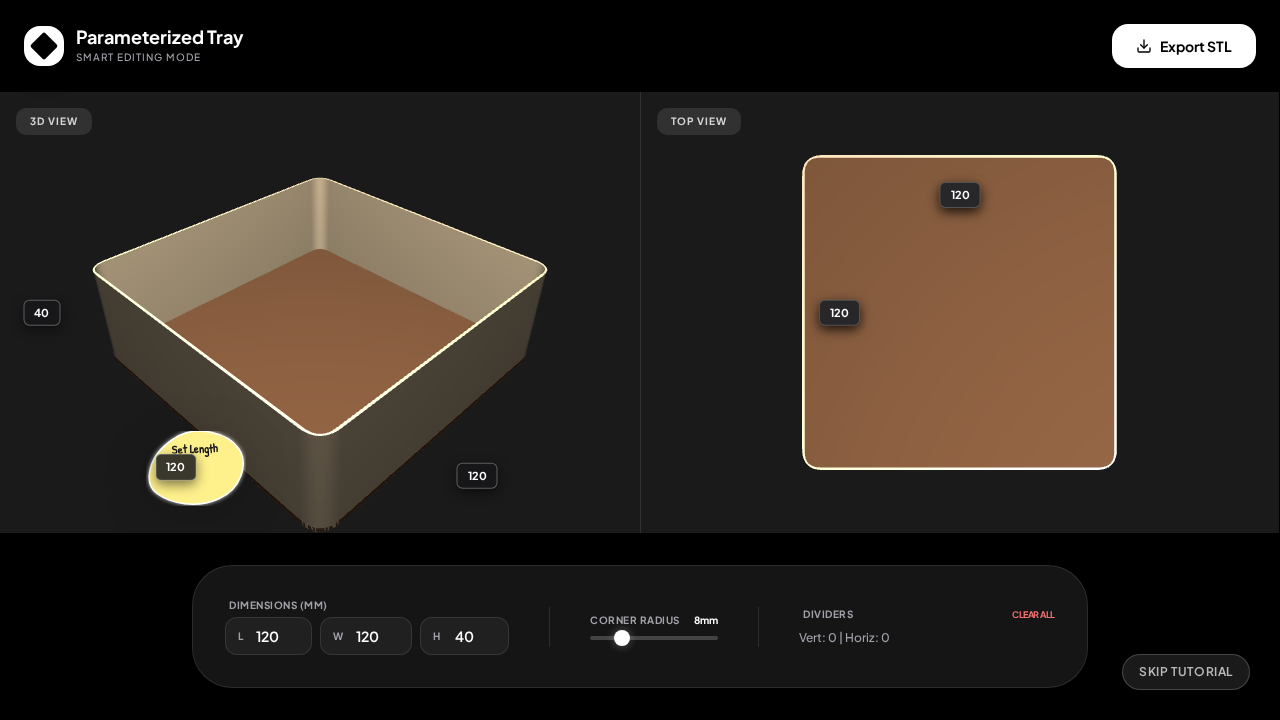
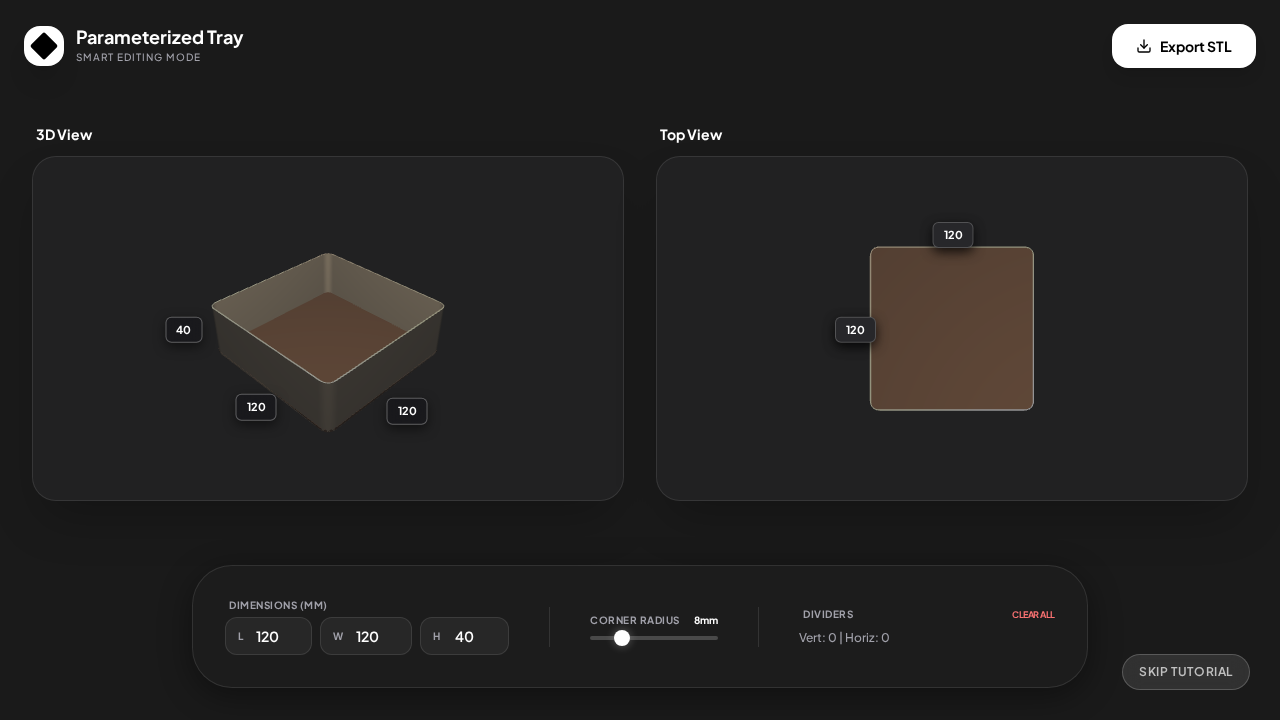
Refactor viewport layout into distinct cards for 3D and Top views
- Split 3D and Top views into separated, styled cards with rounded corners and gaps
- Update SceneManager to use transparent WebGL renderer, allowing CSS card backgrounds to show through
- Update HTML structure to include wrapper divs for layout handling
- Adjust mobile toggle logic to target new wrapper elements
- Ensure robustness on desktop resize with `md:flex-1` classes
- Configure canvas with `pointer-events: none` to support underlying UI interactions

diff --git a/index.html b/index.html
@@ -17,7 +17,7 @@
         input[type=range]::-webkit-slider-thumb { -webkit-appearance: none; height: 16px; width: 16px; border-radius: 50%; background: #ffffff; cursor: pointer; margin-top: -6px; box-shadow: 0 0 10px rgba(255,255,255,0.3); border: none; }
         input[type=range]::-webkit-slider-runnable-track { width: 100%; height: 4px; cursor: pointer; background: rgba(255,255,255,0.2); border-radius: 2px; }
         .view-label { position: absolute; top: 1rem; left: 1rem; background: rgba(255,255,255,0.1); padding: 6px 14px; border-radius: 10px; font-size: 10px; text-transform: uppercase; letter-spacing: 0.1em; font-weight: 700; color: rgba(255,255,255,0.8); z-index: 20; pointer-events: none; border: none; }
-        #main-canvas { position: fixed; top: 0; left: 0; width: 100%; height: 100%; z-index: 1; }
+        #main-canvas { position: fixed; top: 0; left: 0; width: 100%; height: 100%; z-index: 10; pointer-events: none; }
         .viewport-placeholder { position: relative; flex: 1; z-index: 2; }
         .dim-label { position: absolute; font-size: 11px; font-weight: 800; color: #ffffff; z-index: 2000; background: #27272a; padding: 4px 10px; border-radius: 6px; white-space: nowrap; box-shadow: 0 4px 12px rgba(0,0,0,0.8); cursor: pointer; pointer-events: auto; transition: transform 0.15s, background 0.2s; border: 1px solid rgba(255,255,255,0.2); user-select: none; }
         .dim-label:hover { background: #3b82f6; border-color: #ffffff; transform: scale(1.1); }
@@ -144,9 +144,15 @@
             </div>
         </div>
 
-        <main id="viewports-container" class="flex-1 flex flex-col md:flex-row relative">
-            <div id="view-3d-placeholder" class="viewport-placeholder border-b md:border-b-0 md:border-r border-white/10 pointer-events-auto cursor-grab active:cursor-grabbing flex-1"><div class="view-label md:block hidden">3D View</div><div id="dim-container-3d" class="absolute inset-0 pointer-events-none overflow-hidden" style="z-index: 50;"></div></div>
-            <div id="view-top-placeholder" class="viewport-placeholder pointer-events-auto hidden md:block md:flex-1"><div class="view-label md:block hidden">Top View</div><div id="dim-container" class="absolute inset-0 pointer-events-none overflow-hidden" style="z-index: 50;"></div></div>
+        <main id="viewports-container" class="flex-1 flex flex-col md:flex-row relative p-4 gap-4 md:p-8 md:gap-8">
+            <div id="view-3d-wrapper" class="flex-1 md:flex-1 flex flex-col min-h-0">
+                <h2 class="text-white font-bold mb-3 text-sm ml-1 hidden md:block">3D View</h2>
+                <div id="view-3d-placeholder" class="viewport-placeholder pointer-events-auto cursor-grab active:cursor-grabbing flex-1 rounded-3xl border border-white/10 bg-zinc-800/50 shadow-2xl relative"><div id="dim-container-3d" class="absolute inset-0 pointer-events-none overflow-hidden" style="z-index: 50;"></div></div>
+            </div>
+            <div id="view-top-wrapper" class="flex-1 md:flex-1 flex flex-col min-h-0 hidden md:flex">
+                <h2 class="text-white font-bold mb-3 text-sm ml-1 hidden md:block">Top View</h2>
+                <div id="view-top-placeholder" class="viewport-placeholder pointer-events-auto flex-1 rounded-3xl border border-white/10 bg-zinc-800/50 shadow-2xl relative"><div id="dim-container" class="absolute inset-0 pointer-events-none overflow-hidden" style="z-index: 50;"></div></div>
+            </div>
         </main>
         <div class="w-full p-4 md:p-8 flex justify-center pointer-events-none">
             <div class="floating-panel rounded-[2.5rem] p-4 md:p-8 flex flex-col md:flex-row gap-8 items-center justify-between pointer-events-auto w-full max-w-4xl">

diff --git a/src/main.js b/src/main.js
@@ -58,8 +58,8 @@ class App {
 
         window.addEventListener('resize', () => {
              if (window.innerWidth >= 768) {
-                 const v3 = document.getElementById('view-3d-placeholder');
-                 const vt = document.getElementById('view-top-placeholder');
+                 const v3 = document.getElementById('view-3d-wrapper');
+                 const vt = document.getElementById('view-top-wrapper');
                  v3.classList.remove('hidden', 'flex-1');
                  vt.classList.remove('hidden', 'flex-1');
              } else {
@@ -71,8 +71,8 @@ class App {
     handleMobileViewChange(mode) {
         if (window.innerWidth >= 768) return;
 
-        const v3 = document.getElementById('view-3d-placeholder');
-        const vt = document.getElementById('view-top-placeholder');
+        const v3 = document.getElementById('view-3d-wrapper');
+        const vt = document.getElementById('view-top-wrapper');
         const t3 = document.getElementById('tab-3d');
         const tt = document.getElementById('tab-top');
 

diff --git a/src/systems/SceneManager.js b/src/systems/SceneManager.js
@@ -23,10 +23,9 @@ export class SceneManager {
     init() {
         // Scene Setup
         this.scene = new THREE.Scene();
-        this.scene.background = new THREE.Color(0x1a1a1a);
 
         // Renderer Setup
-        this.renderer = new THREE.WebGLRenderer({ canvas: this.canvas, antialias: true });
+        this.renderer = new THREE.WebGLRenderer({ canvas: this.canvas, antialias: true, alpha: true });
         this.renderer.setPixelRatio(window.devicePixelRatio);
 
         // Camera Setup

diff --git a/verification/verify_layout.py b/verification/verify_layout.py
@@ -1,0 +1,34 @@
+from playwright.sync_api import sync_playwright
+
+def verify_layout():
+    with sync_playwright() as p:
+        browser = p.chromium.launch(headless=True)
+
+        # 1. Desktop View
+        page = browser.new_page(viewport={'width': 1280, 'height': 800})
+        page.goto("http://localhost:8000/index.html")
+        page.wait_for_selector("#viewports-container")
+        # Wait a bit for 3D to render
+        page.wait_for_timeout(2000)
+        page.screenshot(path="verification/layout_desktop.png")
+        print("Desktop screenshot captured.")
+
+        # 2. Mobile View (3D Tab Active)
+        page_mobile = browser.new_page(viewport={'width': 375, 'height': 667})
+        page_mobile.goto("http://localhost:8000/index.html")
+        page_mobile.wait_for_selector("#viewports-container")
+        page_mobile.wait_for_timeout(2000)
+        page_mobile.screenshot(path="verification/layout_mobile_3d.png")
+        print("Mobile 3D screenshot captured.")
+
+        # 3. Mobile View (Top Tab Active)
+        # Click Top View tab
+        page_mobile.click("#tab-top")
+        page_mobile.wait_for_timeout(1000)
+        page_mobile.screenshot(path="verification/layout_mobile_top.png")
+        print("Mobile Top screenshot captured.")
+
+        browser.close()
+
+if __name__ == "__main__":
+    verify_layout()
